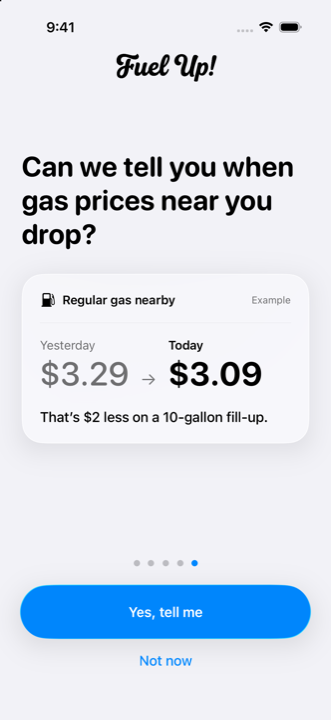
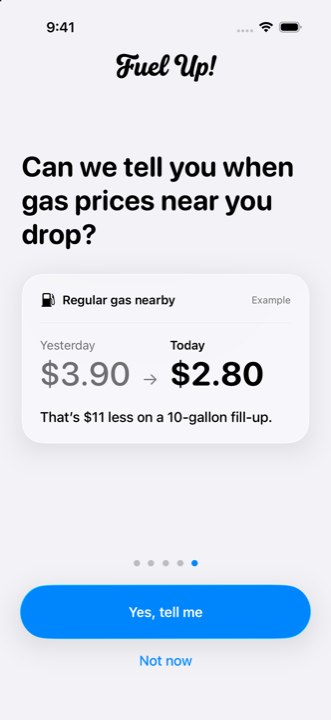
Show a $3.90 to $2.80 example on the price-drop page

Changed region(s): [[0.2719, 0.4583, 0.8157, 0.6111]]

diff --git a/modules/fuel-up-map-kit-routing/ios/Onboarding/OnboardingPriceAlertsPage.swift b/modules/fuel-up-map-kit-routing/ios/Onboarding/OnboardingPriceAlertsPage.swift
@@ -28,7 +28,7 @@ struct OnboardingPriceAlertsPage: View {
               }.fixedSize(horizontal: true, vertical: false)
               VStack(alignment: .leading, spacing: 12) { previousPrice; currentPrice }
             }
-            Text("That’s $2 less on a 10-gallon fill-up.")
+            Text("That’s $11 less on a 10-gallon fill-up.")
               .font(.body.weight(.medium)).fixedSize(horizontal: false, vertical: true)
           }
           .padding(22).frame(maxWidth: .infinity, alignment: .leading)
@@ -48,14 +48,14 @@ struct OnboardingPriceAlertsPage: View {
   private var previousPrice: some View {
     VStack(alignment: .leading, spacing: 2) {
       Text("Yesterday").font(.subheadline)
-      Text(verbatim: "$3.29").font(.system(size: priceSize, weight: .medium, design: .rounded))
+      Text(verbatim: "$3.90").font(.system(size: priceSize, weight: .medium, design: .rounded))
     }.foregroundStyle(.secondary)
   }
 
   private var currentPrice: some View {
     VStack(alignment: .leading, spacing: 2) {
       Text("Today").font(.subheadline.weight(.semibold))
-      Text(verbatim: "$3.09").font(.system(size: priceSize, weight: .bold, design: .rounded))
+      Text(verbatim: "$2.80").font(.system(size: priceSize, weight: .bold, design: .rounded))
     }
   }
 }
